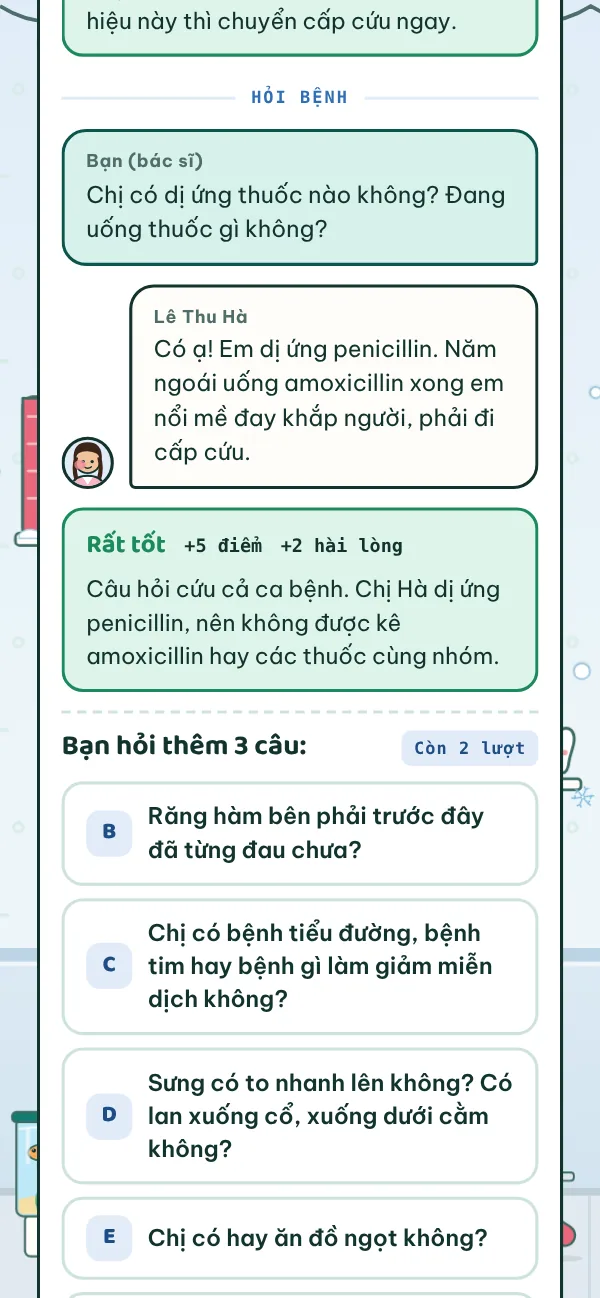
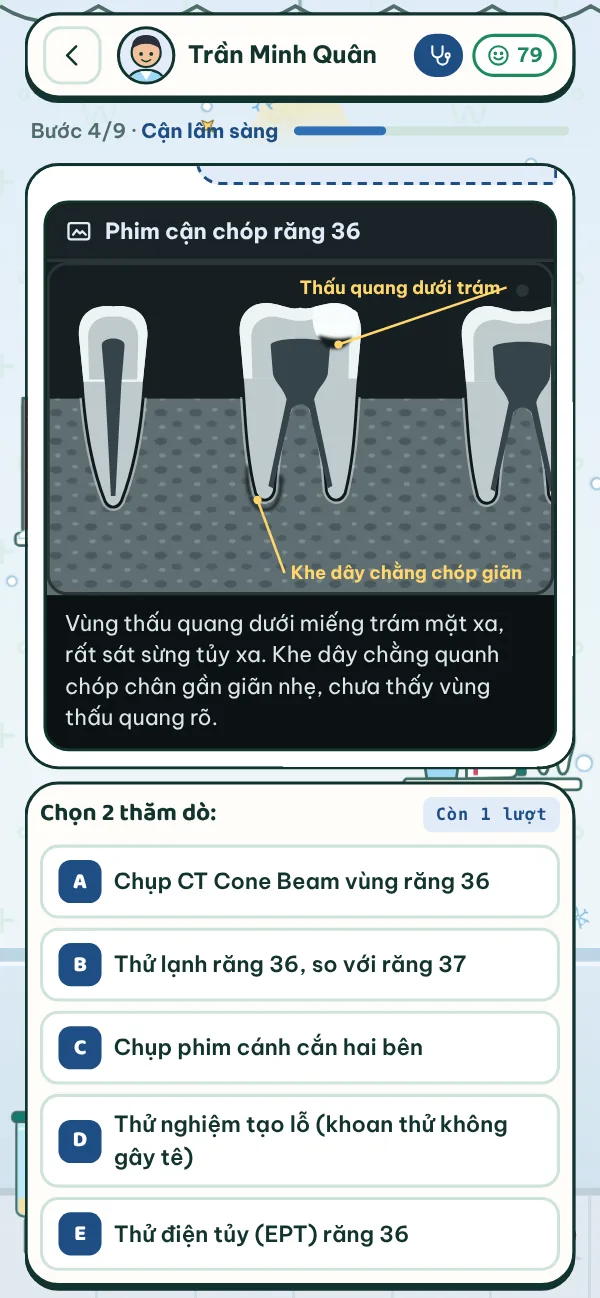
Trang giới thiệu: Version 2.5.1 (Mô Phỏng khung hội thoại, chế độ Bác sĩ, 8 ca)
Claude-Session: https://claude.ai/code/session_01WDxktGbJUgqZZoi7muFA3u

diff --git a/index.html b/index.html
@@ -286,11 +286,11 @@ section.blk{padding:96px 0}
           <span>Mở bản web<small>iPhone, máy tính</small></span>
         </a>
       </div>
-      <p class="ver">Bản <b>2.5</b>, ra ngày 22/10/2026. Miễn phí, không quảng cáo.</p>
+      <p class="ver">Bản <b>2.5.1</b>, ra ngày 22/10/2026. Miễn phí, không quảng cáo.</p>
     </div>
     <div class="shelf">
       <div class="phone l"><img src="img/quiz-answer.webp" alt="Màn hình làm câu hỏi: chọn sai được báo đáp án đúng kèm giải thích" width="600" height="1298"></div>
-      <div class="phone mid"><img src="img/lobby.webp" alt="Sảnh của app: Ôn Luyện Kiến Thức và Mô Phỏng Nha Khoa" width="600" height="1298"></div>
+      <div class="phone mid"><img src="img/lobby.webp" alt="Sảnh của app: hai mục Ôn Luyện Kiến Thức và Mô Phỏng Nha Khoa" width="600" height="1298"></div>
       <div class="phone r"><img src="img/exam.webp" alt="Phòng Thi: đồng hồ đếm ngược, câu 5 trên 60" width="600" height="1298"></div>
     </div>
     <div class="counter" aria-hidden="true"></div>
@@ -342,14 +342,14 @@ section.blk{padding:96px 0}
         </div>
       </article>
       <article class="feat flip" data-rv>
-        <div class="feat-shot phone"><img src="img/sim.webp" alt="Mô Phỏng Nha Khoa: bác sĩ hỏi bệnh nhân sưng má về dị ứng thuốc, app chấm điểm và giải thích" width="600" height="1298" loading="lazy"></div>
+        <div class="feat-shot phone"><img src="img/sim.webp" alt="Mô Phỏng Nha Khoa: khung hội thoại hiện phim X-quang răng 36, bên dưới là các lựa chọn thăm dò" width="600" height="1298" loading="lazy"></div>
         <div class="feat-txt">
           <h3>Mô Phỏng Nha Khoa<span class="tag-beta">Beta</span></h3>
           <p class="one">Vào vai bác sĩ: hỏi bệnh, khám, chụp phim, chẩn đoán và điều trị.</p>
           <ul class="facts">
-            <li style="--i:0">6 ca bệnh, hội thoại như ở phòng khám thật</li>
-            <li style="--i:1">Chọn sai là bệnh nhân gặp hậu quả</li>
-            <li style="--i:2">Chấm điểm, xem lại từng bước kèm giải thích</li>
+            <li style="--i:0">8 ca bệnh, 2 ca cấp cứu có đếm giờ</li>
+            <li style="--i:1">Chế độ Bác sĩ: không gợi ý, sai nặng là hết ca</li>
+            <li style="--i:2">Cuối ca có kết cục, điểm và giải thích từng bước</li>
           </ul>
         </div>
       </article>
@@ -399,14 +399,22 @@ section.blk{padding:96px 0}
         <div class="sheet">
           <ol class="log" reversed>
             <li style="--i:0">
-              <div class="when"><b>2.5</b><time datetime="2026-10-22">22/10/2026</time><span class="new">Mới nhất</span></div>
+              <div class="when"><b>2.5.1</b><time datetime="2026-10-22">22/10/2026</time><span class="new">Mới nhất</span></div>
+              <ul>
+                <li>Mô Phỏng: khung hội thoại cố định, lựa chọn ngay bên dưới</li>
+                <li>Chế độ Bác sĩ khó hơn nhiều, thêm 2 ca cấp cứu có đếm giờ</li>
+                <li>Sảnh bỏ hộp chữ phía trên menu</li>
+              </ul>
+            </li>
+            <li style="--i:1">
+              <div class="when"><b>2.5</b><time datetime="2026-10-22">22/10/2026</time></div>
               <ul>
                 <li>Mô Phỏng Nha Khoa (beta): 6 ca bệnh</li>
                 <li>Hỏi bệnh, khám, chẩn đoán, điều trị như thật</li>
                 <li>Menu chính gọn còn 2 mục</li>
               </ul>
             </li>
-            <li style="--i:1">
+            <li style="--i:2">
               <div class="when"><b>2.4</b><time datetime="2026-10-22">22/10/2026</time></div>
               <ul>
                 <li>Anh văn chuyên ngành 2 viết lại, dễ hiểu hơn</li>
@@ -414,7 +422,7 @@ section.blk{padding:96px 0}
                 <li>Giáo trình trọn bộ 15 Unit (1 file PDF)</li>
               </ul>
             </li>
-            <li style="--i:2">
+            <li style="--i:3">
               <div class="when"><b>2.3</b><time datetime="2026-10-21">21/10/2026</time></div>
               <ul>
                 <li>Giáo trình trọn bộ Mắt, Nhi khoa (1 file PDF)</li>
@@ -422,7 +430,7 @@ section.blk{padding:96px 0}
                 <li>Vẫn đọc, tải từng bài như cũ</li>
               </ul>
             </li>
-            <li style="--i:3">
+            <li style="--i:4">
               <div class="when"><b>2.1.2</b><time datetime="2026-10-21">21/10/2026</time></div>
               <ul>
                 <li>Giáo trình Nhi khoa viết lại, dễ hiểu hơn</li>
@@ -430,7 +438,7 @@ section.blk{padding:96px 0}
                 <li>Liên hệ Răng Hàm Mặt trong từng bài</li>
               </ul>
             </li>
-            <li style="--i:4">
+            <li style="--i:5">
               <div class="when"><b>2.1.1</b><time datetime="2026-10-21">21/10/2026</time></div>
               <ul>
                 <li>Giáo trình Mắt viết lại, dễ hiểu hơn</li>
@@ -438,7 +446,7 @@ section.blk{padding:96px 0}
                 <li>Tiêu đề phụ gọn hơn</li>
               </ul>
             </li>
-            <li style="--i:5">
+            <li style="--i:6">
               <div class="when"><b>2.0.1</b><time datetime="2026-10-21">21/10/2026</time></div>
               <ul>
                 <li>Vật liệu nha khoa, Anh văn đủ 3 mức độ</li>
@@ -446,7 +454,7 @@ section.blk{padding:96px 0}
                 <li>Nhạc nền chill mùa đông</li>
               </ul>
             </li>
-            <li style="--i:6">
+            <li style="--i:7">
               <div class="when"><b>2.0</b><time datetime="2026-10-20">20/10/2026</time></div>
               <ul>
                 <li>Ra mắt Phòng Thi</li>
@@ -454,19 +462,19 @@ section.blk{padding:96px 0}
                 <li>Giao diện mùa đông</li>
               </ul>
             </li>
-            <li style="--i:7">
+            <li style="--i:8">
               <div class="when"><b>1.2</b><time datetime="2026-10-20">20/10/2026</time></div>
               <ul><li>Thêm môn Tai - Mũi - Họng (6 bài)</li></ul>
             </li>
-            <li style="--i:8">
+            <li style="--i:9">
               <div class="when"><b>1.1</b><time datetime="2026-10-20">20/10/2026</time></div>
               <ul><li>Thêm môn Mắt (5 bài)</li></ul>
             </li>
-            <li style="--i:9">
+            <li style="--i:10">
               <div class="when"><b>1.0</b><time datetime="2026-10-20">20/10/2026</time></div>
               <ul><li>Tên mới Ôn Luyện Nha Khoa, tự báo khi có bản mới</li></ul>
             </li>
-            <li style="--i:10">
+            <li style="--i:11">
               <div class="when"><b>Bản đầu</b><time datetime="2026-10-19">19/10/2026</time></div>
               <ul><li>App Android chạy offline, 3 môn đầu tiên</li></ul>
             </li>
@@ -493,7 +501,7 @@ section.blk{padding:96px 0}
           </div>
           <a class="btn btn-dl" href="https://github.com/tunaasieunhat/on-luyen-nha-khoa/releases/latest/download/OnLuyenNhaKhoa.apk">
             <svg viewBox="0 0 24 24" fill="none" stroke="currentColor" stroke-width="2.2" stroke-linecap="round" stroke-linejoin="round" aria-hidden="true"><path d="M12 3v12M7 10l5 5 5-5M5 20h14"/></svg>
-            <span>Tải OnLuyenNhaKhoa.apk<small>Version 2.5</small></span>
+            <span>Tải OnLuyenNhaKhoa.apk<small>Version 2.5.1</small></span>
           </a>
           <ol class="steps">
             <li>Tải file APK</li>
